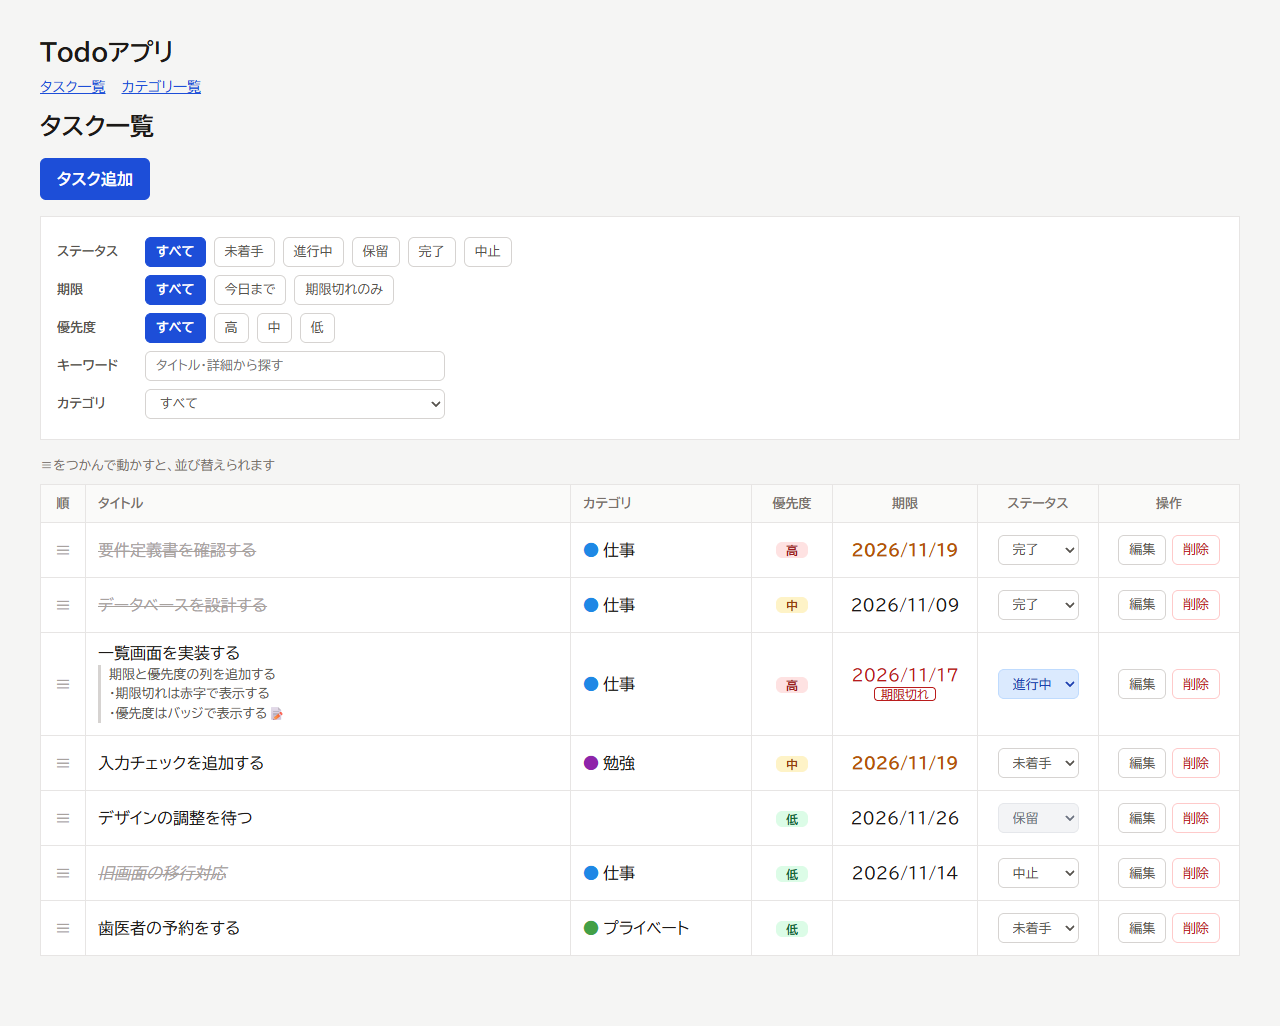
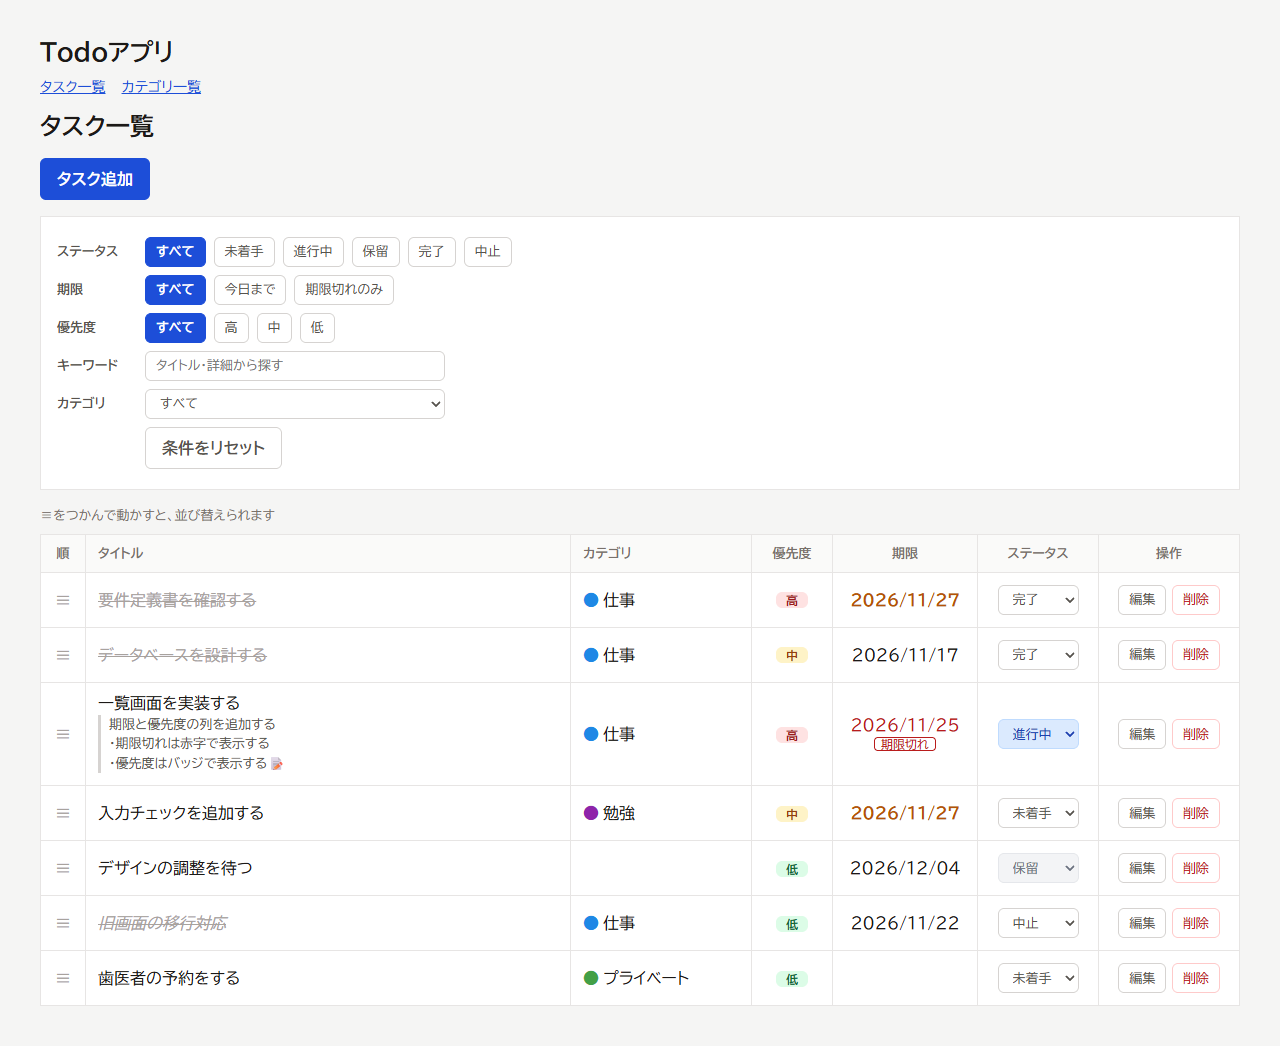
READMEに「条件をリセット」と、ステータスを変えた後の絞り込み直しを足す
- 機能の一覧の絞り込みの行に、「条件をリセット」ですべての条件を外せることを足す
- ステータスか期限で絞り込んでいるときにステータスを変えると、今の条件で一覧を取り直すことを足す
- タスク一覧の画像を、「条件をリセット」ボタンのある画面で撮り直す

diff --git a/README.md b/README.md
@@ -9,7 +9,8 @@ Java 21 / Spring Boot / Thymeleafで作成したTodoアプリです。4つのフ
 - タスクの一覧・追加・編集・削除
 - ステータス（未着手・進行中・保留・完了・中止）の変更
 - 期限・優先度・詳細の入力と表示（期限切れと今日が期限を色で区別）
-- ステータス・期限・優先度・カテゴリ・キーワードでの絞り込み（組み合わせ可）
+- ステータス・期限・優先度・カテゴリ・キーワードでの絞り込み（組み合わせ可。「条件をリセット」ですべての条件を外せる）
+- ステータスか期限で絞り込んでいるときにステータスを変えると、今の条件で一覧を取り直す（条件に合わなくなったタスクは一覧から外れる）
 - ドラッグでの並び替え（並び順は保存される）
 
 ### カテゴリ
